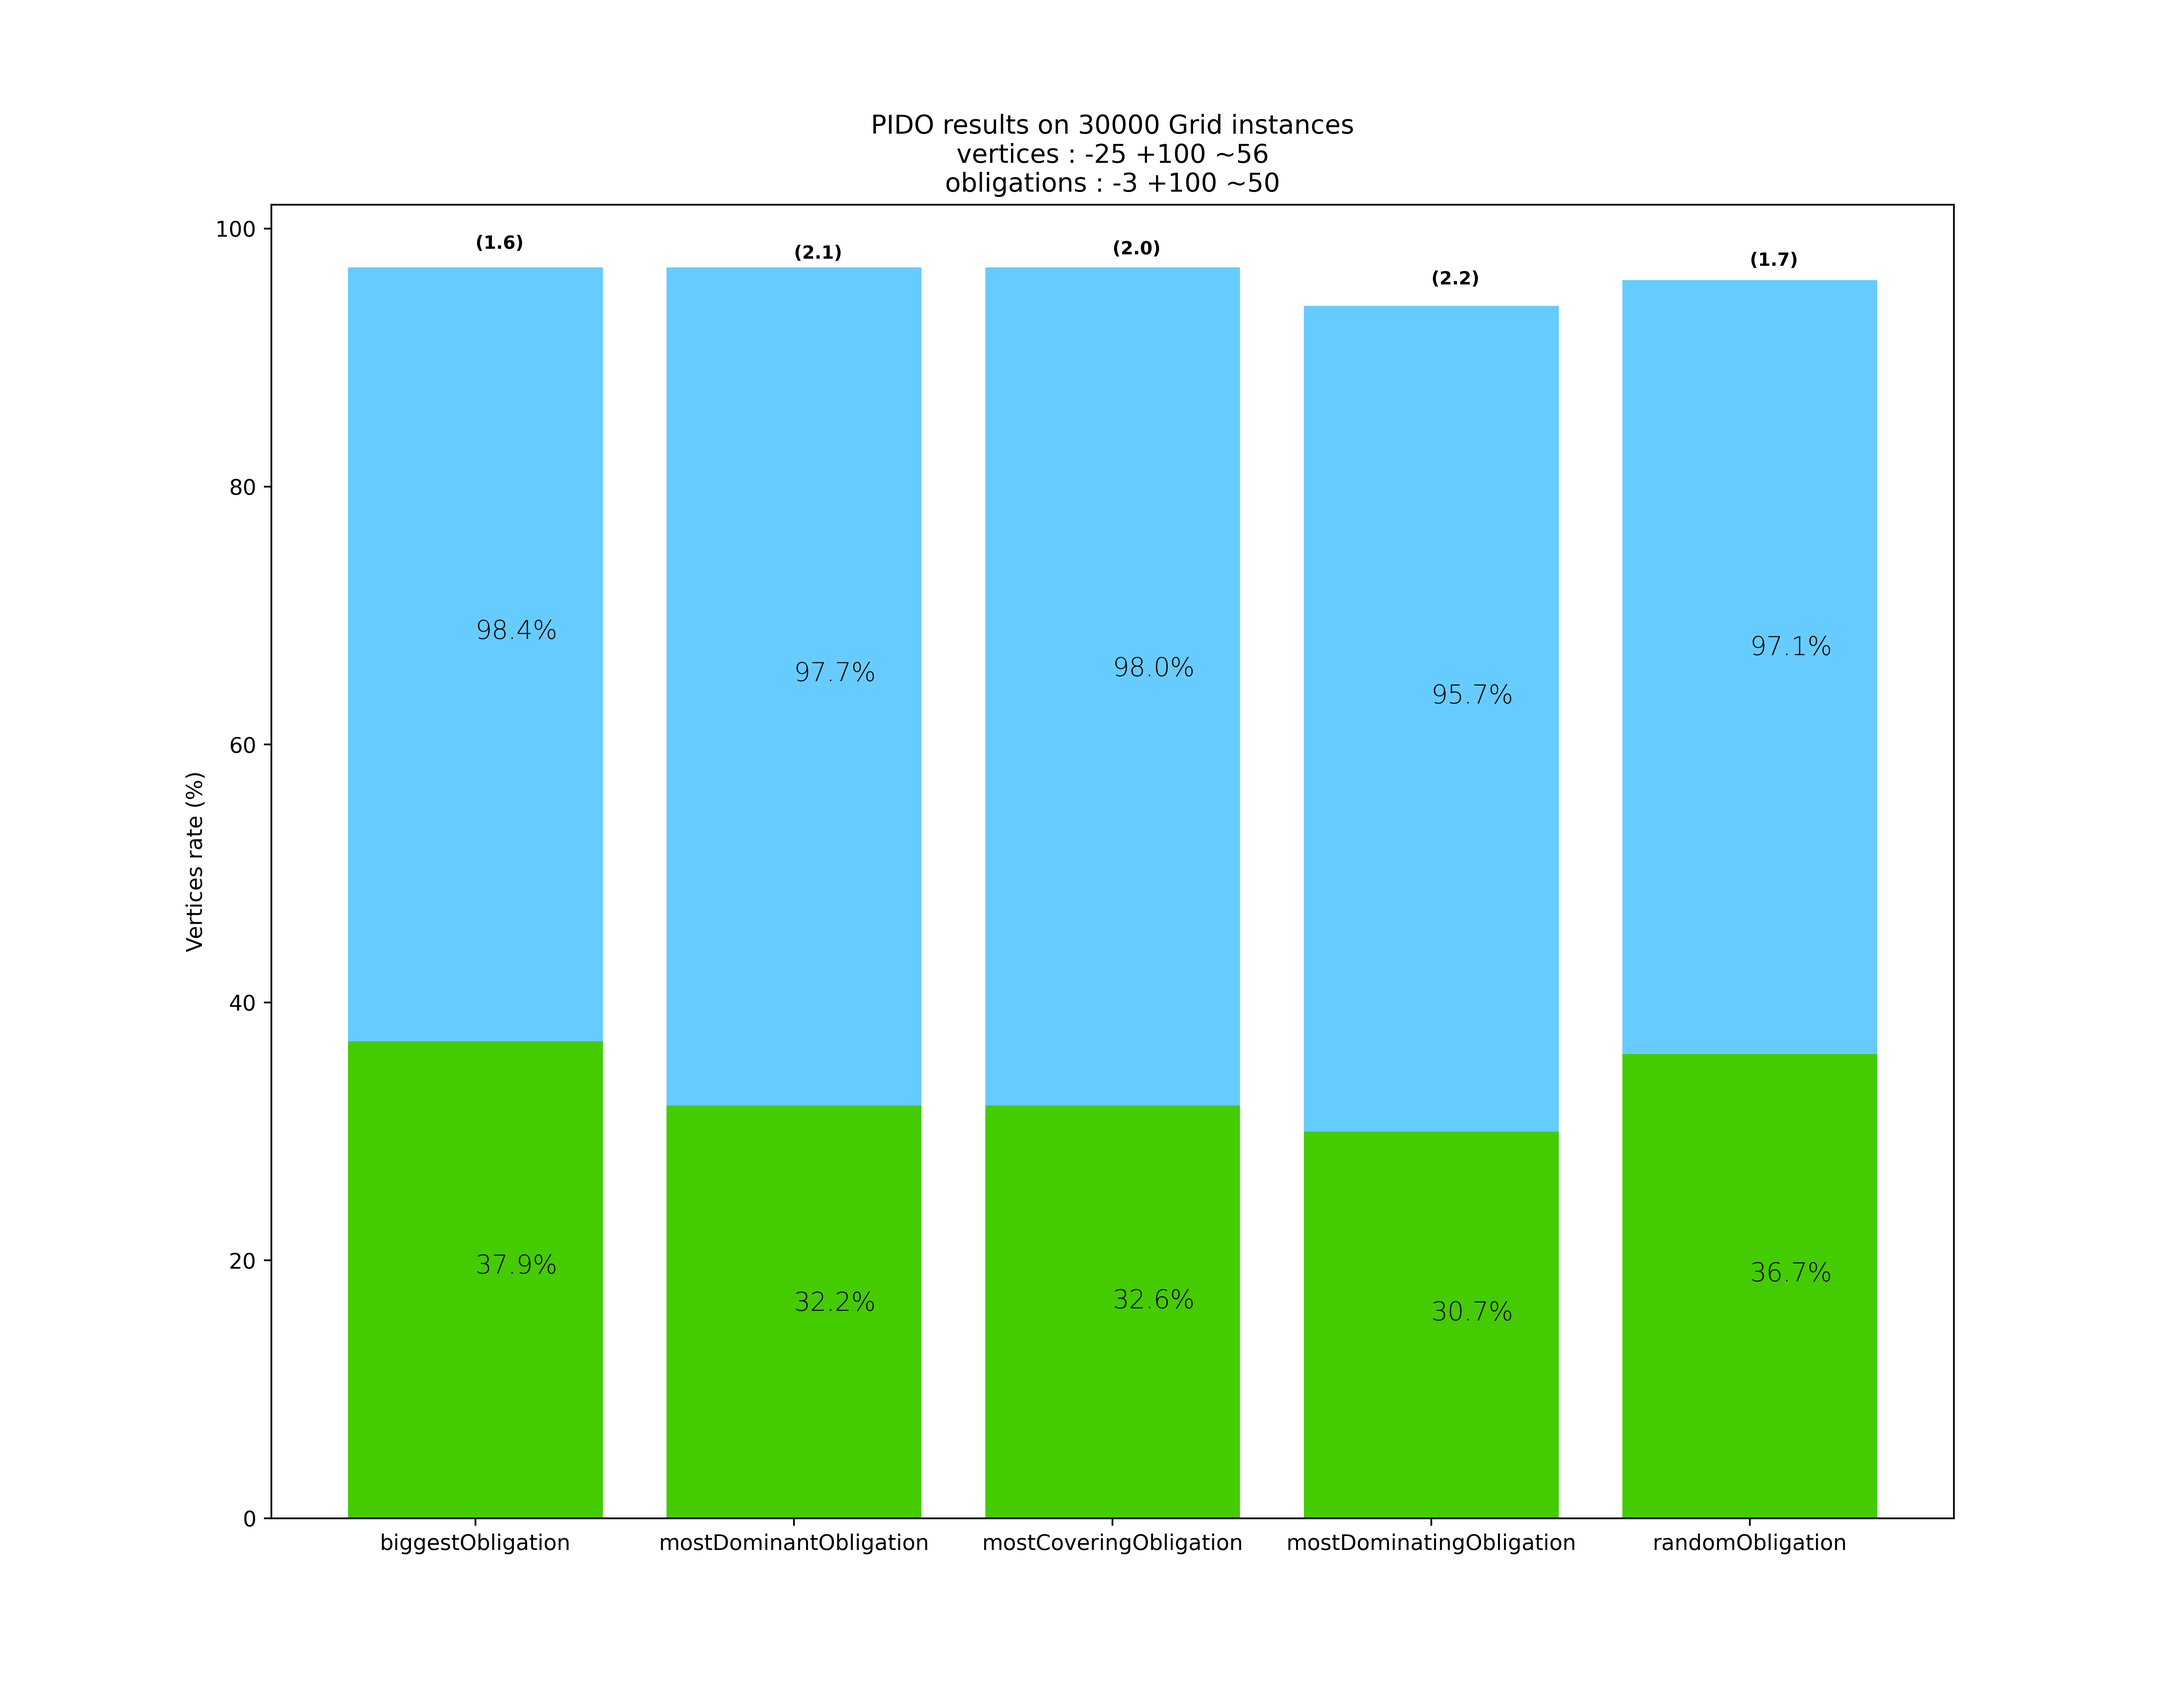
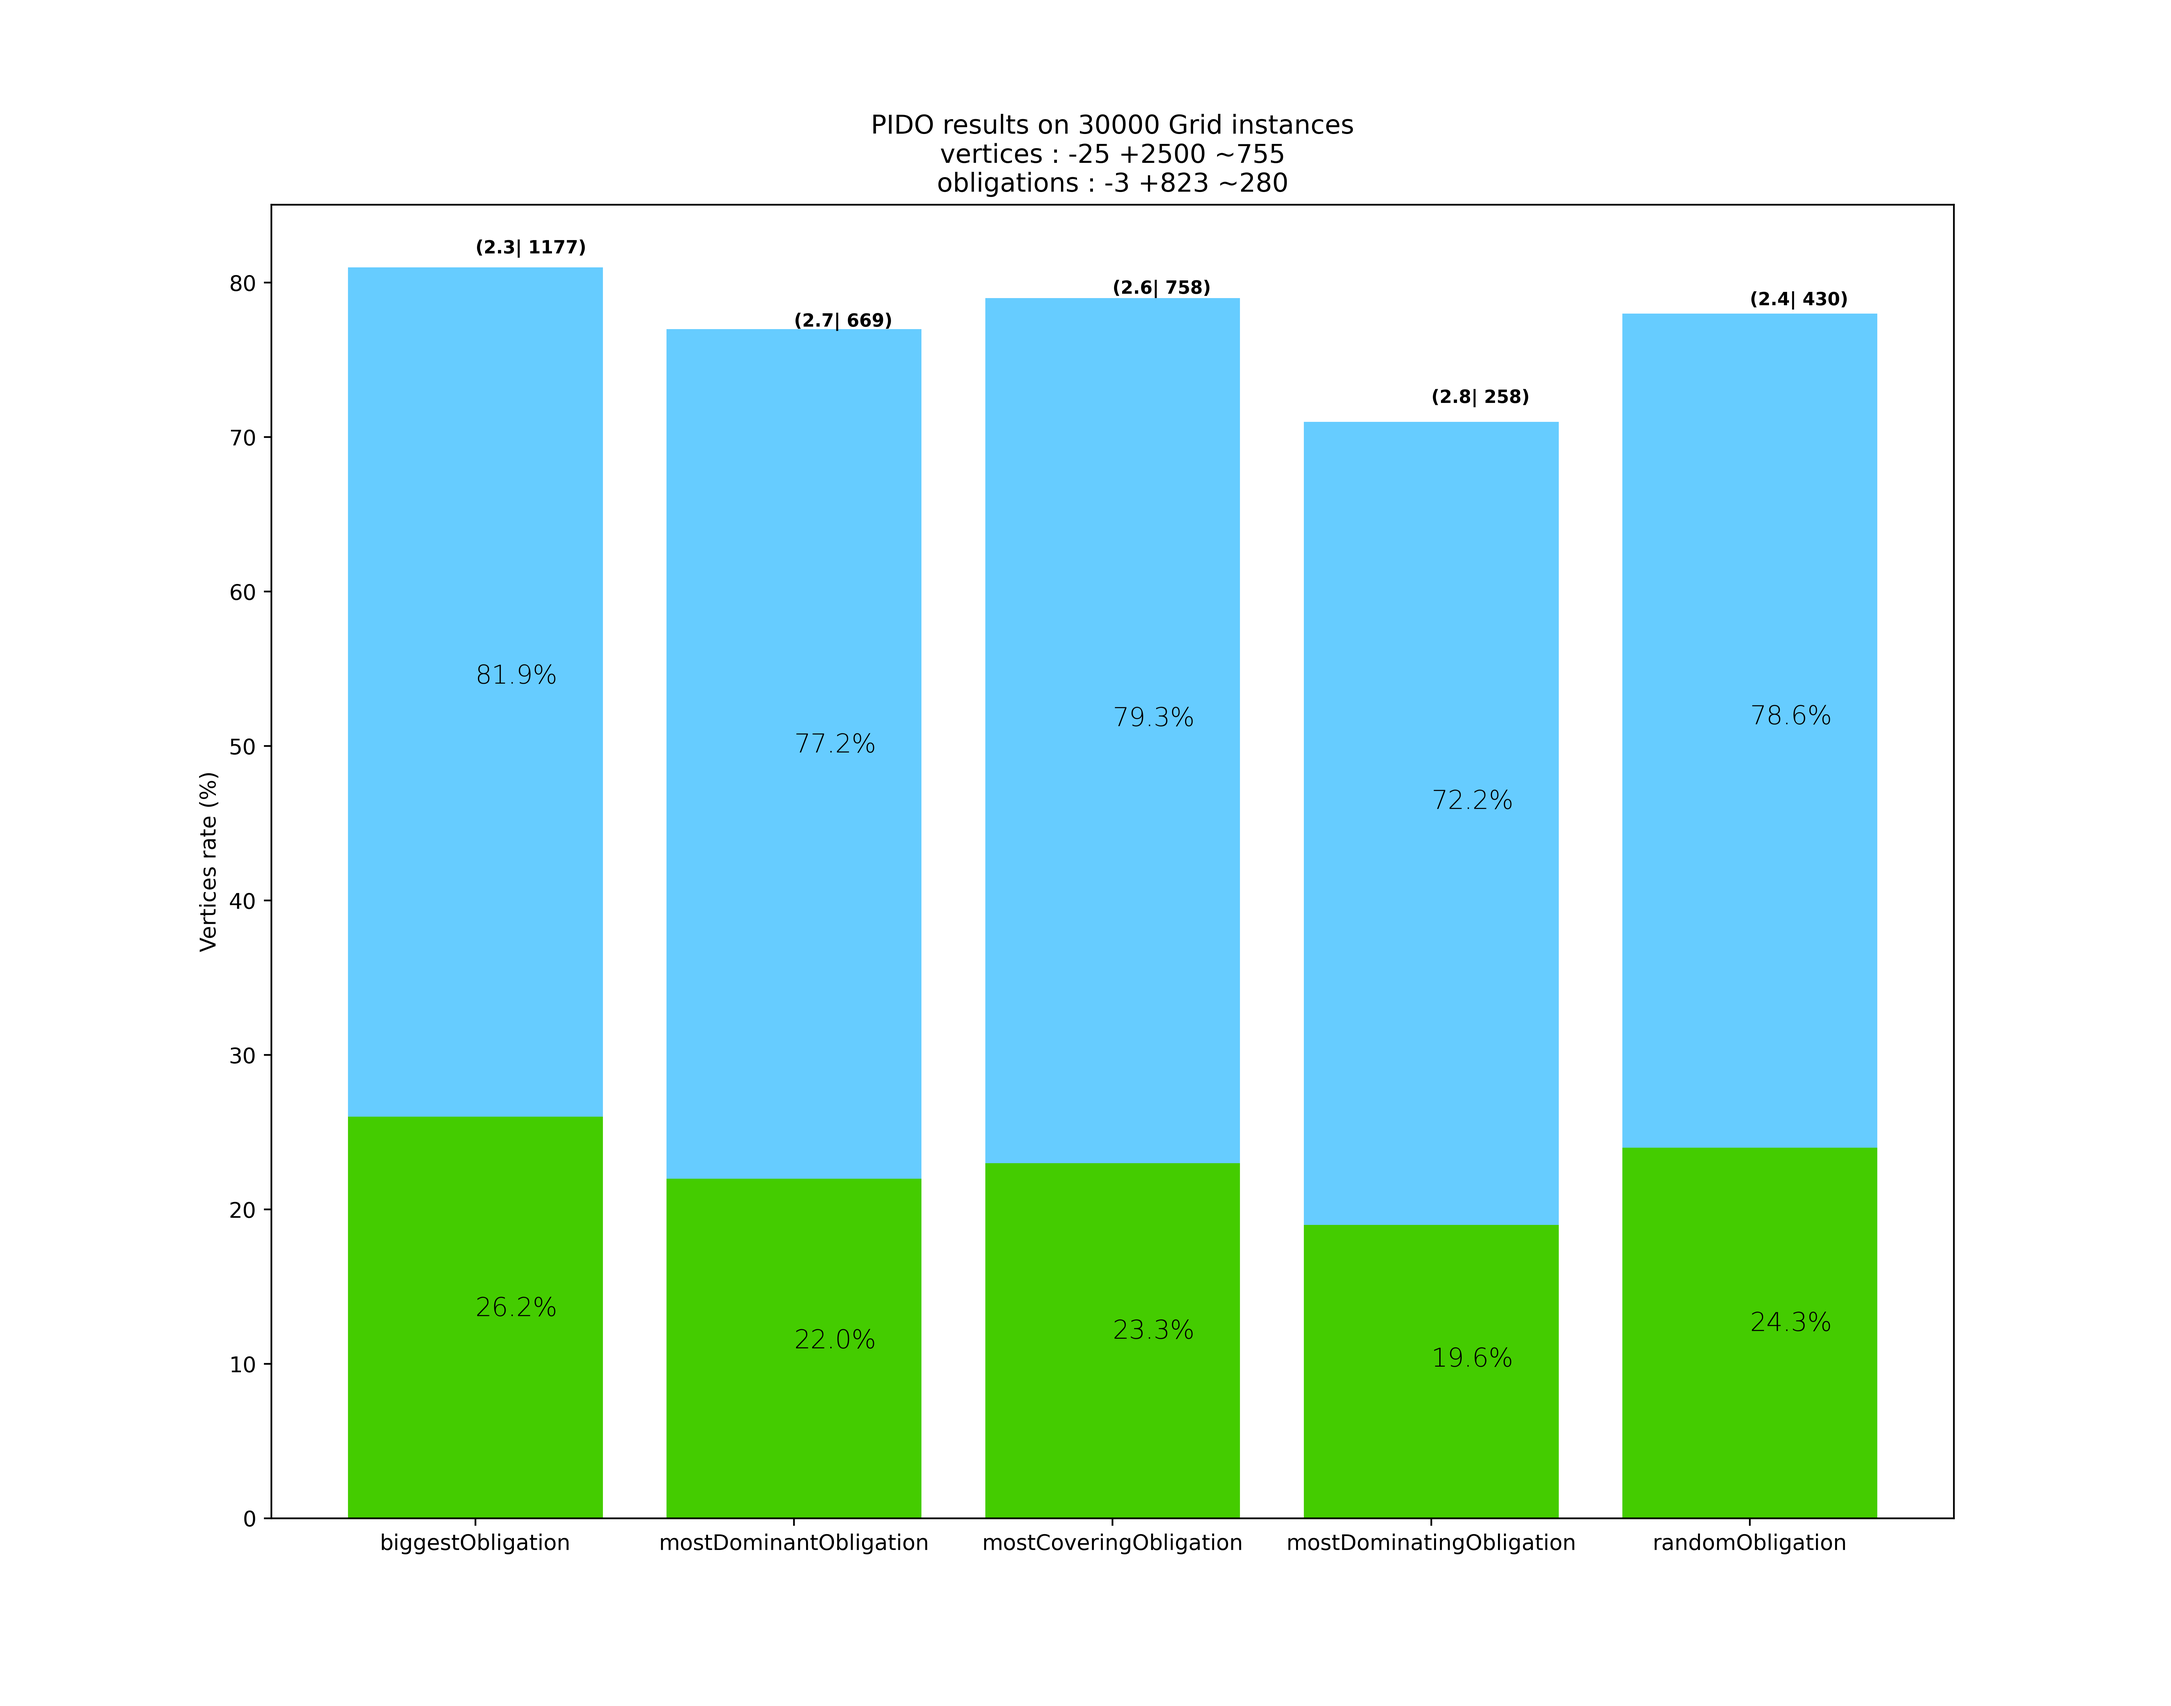
last commit before presentation

diff --git a/graphs_generators.py b/graphs_generators.py
@@ -171,7 +171,7 @@ def instanceGeneratorComplete_graph(minVertices=5,maxVertices=10,minObligations=
 
 
 
-def instanceGeneratorGrid_graph(minColumns=5,maxColumns=10,minLines=5,maxLines=10,minObligations=3,maxObligations=900):
+def instanceGeneratorGrid_graph(minColumns=5,maxColumns=50,minLines=5,maxLines=50,minObligations=3,maxObligations=900):
     """Constructs a grid pXq, returns the corresponding graph and a set of minObligations to maxObligations obligations.
     p varis between minColumns and maxColumns and q varies between minLines and maxLines."""
 
@@ -206,7 +206,7 @@ def instanceGeneratorGrid_graph(minColumns=5,maxColumns=10,minLines=5,maxLines=1
 
 
 
-def instanceGeneratorTorus_graph(minColumns=5,maxColumns=5,minLines=5,maxLines=5,minObligations=3,maxObligations=900):
+def instanceGeneratorTorus_graph(minColumns=5,maxColumns=50,minLines=5,maxLines=50,minObligations=3,maxObligations=900):
     """Constructs a torus pXq, returns the corresponding graph and a set of minObligations to maxObligations obligations.
     p varies between minColumns and maxColumns and q varies between minLines and maxLines."""
     p = randint(minColumns,maxColumns)
@@ -226,16 +226,12 @@ def instanceGeneratorTorus_graph(minColumns=5,maxColumns=5,minLines=5,maxLines=5
         for j in range(q):
             if i-1 >= 0 :
                 graph[str(i)+str(j)].add(str(i-1)+str(j))
-                #graph[str(i-1)+str(j)].add(str(i)+str(j))
             if i+1 < p:
                 graph[str(i)+str(j)].add(str(i+1)+str(j))
-                #graph[str(i+1)+str(j)].add(str(i)+str(j))
             if j-1 >= 0 :
                 graph[str(i)+str(j)].add(str(i)+str(j-1))
-                #graph[str(i)+str(j-1)].add(str(i)+str(j))
             if j+1 < q:
                 graph[str(i)+str(j)].add(str(i)+str(j+1))
-                #graph[str(i)+str(j+1)].add(str(i)+str(j))
 
             if (i == p-1):
                 graph[str(i)+str(j)].add('0'+str(j))

diff --git a/PIDO.py b/PIDO.py
@@ -30,9 +30,9 @@ def mostDominantObligation(graph, obligationSet):
 
             neighbourI = neighbourI | graph[vertex]
 
-            if len(neighbourI)>len(neighbourB):
-                b=i
-                neighbourB=neighbourI.copy()
+        if len(neighbourI)>len(neighbourB):
+            b=i
+            neighbourB=neighbourI.copy()
 
     return obligationSet[b]
 
@@ -52,9 +52,9 @@ def mostCoveringObligation(graph,obligationSet):
             neighbourI.add(vertex)
             neighbourI = neighbourI | graph[vertex]
 
-            if len(neighbourI) > len(neighbourB):
-                b=i
-                neighbourB=neighbourI.copy()
+        if len(neighbourI) > len(neighbourB):
+            b=i
+            neighbourB=neighbourI.copy()
 
     return obligationSet[b]
 
@@ -74,9 +74,9 @@ def mostDominatingObligation(graph,obligationSet):
             neighbourI.add(vertex)
             neighbourI = neighbourI | graph[vertex]
 
-            if len(neighbourI)/len(obligationSet[i])>len(neighbourB)/len(obligationSet[b]):
-                b=i
-                neighbourB=neighbourI.copy()
+        if len(neighbourI)/len(obligationSet[i])>len(neighbourB)/len(obligationSet[b]):
+            b=i
+            neighbourB=neighbourI.copy()
 
     return obligationSet[b]
 

diff --git a/sand_box.py b/sand_box.py
@@ -2,7 +2,6 @@ from PIDO import *
 from visualisation_tools import *
 from evaluation import *
 from graphs_generators import *
-#from graphs_generators2 import *
 import matplotlib.pyplot as plt
 import time
 
@@ -67,14 +66,15 @@ def main():
     #recevability_test()
 
     #g,os, m = instanceFromFile("graph_in_file_example")
-    
     # g,os, m = instanceGeneratorTorus_graph()
+
     # s = searchIDO(g,os,mostCoveringObligation)
     # graphs_visualisation(g,os,s,view = False, save = True)
 
 
-    # ultimateTest(30_000, generators, selectors)# <---------- P A U L
+    #ultimateTest(30_000, generators, selectors)# <---------- P A U L
 
-    # ultimateTestO(100, generators, selectors)  # <---------- T H O M A S
+    #ultimateTestO(30_000, generators, selectors)  # <---------- T H O M A S
+
 
 main()
